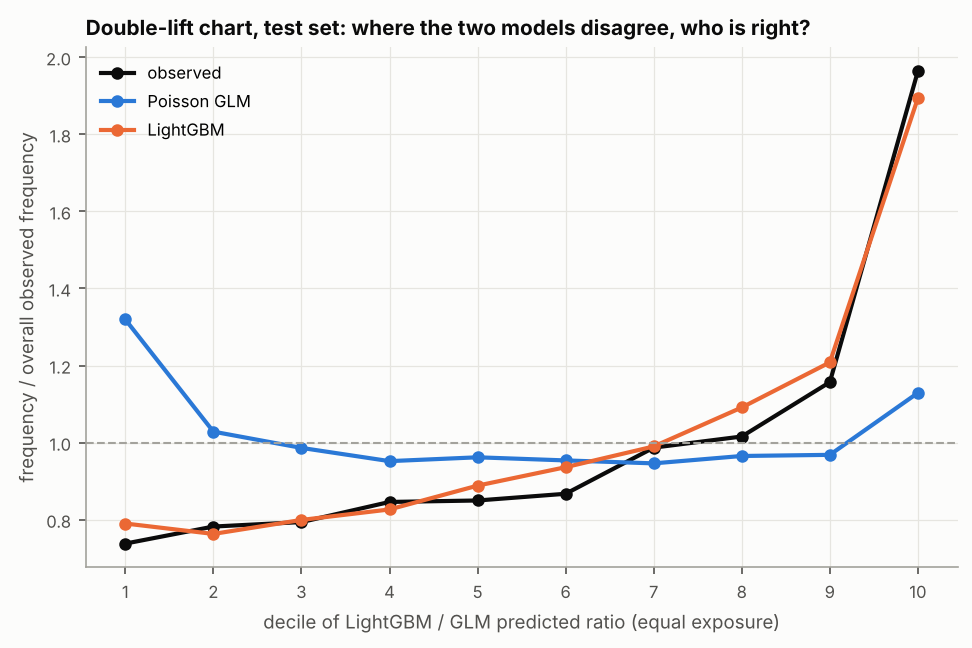
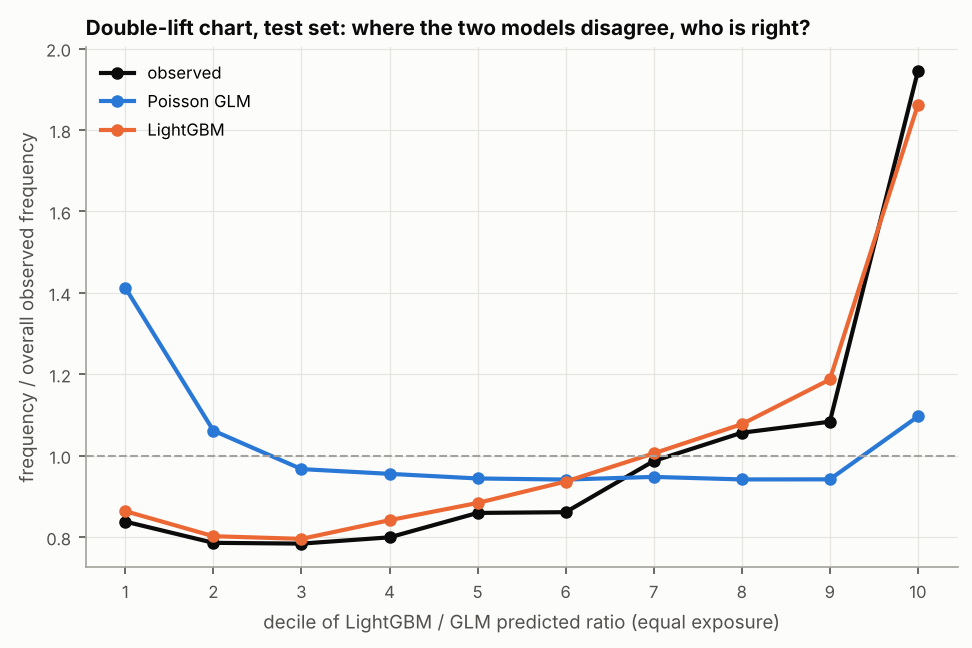
Report final-model term tests, quasi-Poisson p-values, data checks and balance details

diff --git a/src/evaluate.py b/src/evaluate.py
@@ -95,7 +95,9 @@ def pure_premium_balance(df: pd.DataFrame) -> pd.DataFrame:
     return pd.DataFrame([
         {"quantity": "predicted pure premium x exposure (GLM, incl. large-loss loading)", "eur": pred},
         {"quantity": "actual incurred claims (uncapped)", "eur": incurred},
+        {"quantity": "actual capped claims", "eur": capped},
         {"quantity": "actual capped claims x large-loss loading", "eur": capped * ll},
+        {"quantity": "test incurred / capped (test-implied loading)", "eur": incurred / capped},
         {"quantity": "predicted / actual incurred", "eur": pred / incurred},
         {"quantity": "predicted / (actual capped x loading)", "eur": pred / (capped * ll)},
     ])

diff --git a/src/prepare.py b/src/prepare.py
@@ -86,6 +86,15 @@ def main() -> None:
         }
     )
     split.to_csv(config.TABLE_DIR / "split_summary.csv", index=False)
+
+    full = pd.concat([train, test])
+    checks = pd.DataFrame([{
+        "policies_with_claims": int((full["ClaimNbRaw"] > 0).sum()),
+        "claim_records": int(full["NbClaimsSev"].sum()),
+        "policies_where_ClaimNb_differs_from_claim_records": int((full["ClaimNbRaw"] != full["NbClaimsSev"]).sum()),
+    }])
+    checks.to_csv(config.TABLE_DIR / "data_checks.csv", index=False)
+    print(checks.to_string(index=False))
     print(split.to_string(index=False))
     print(info)
 
